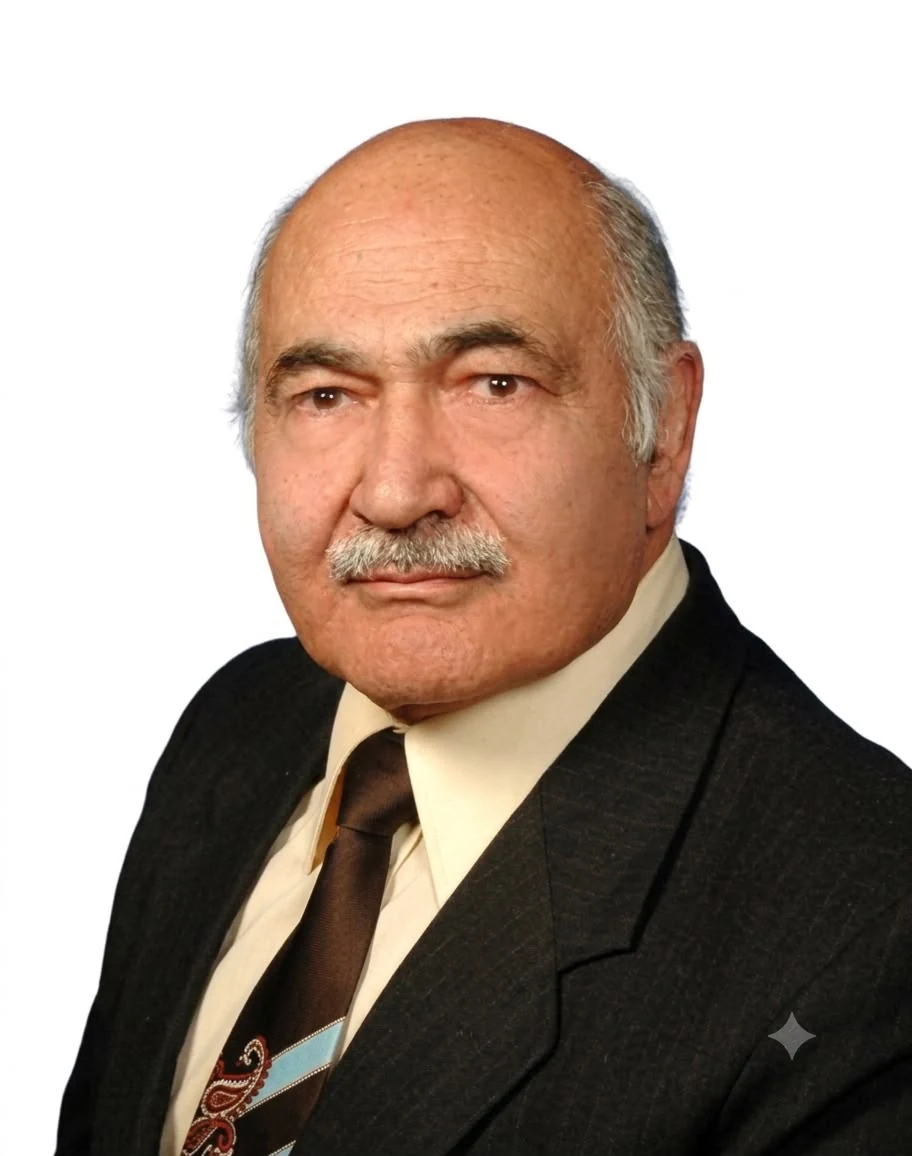
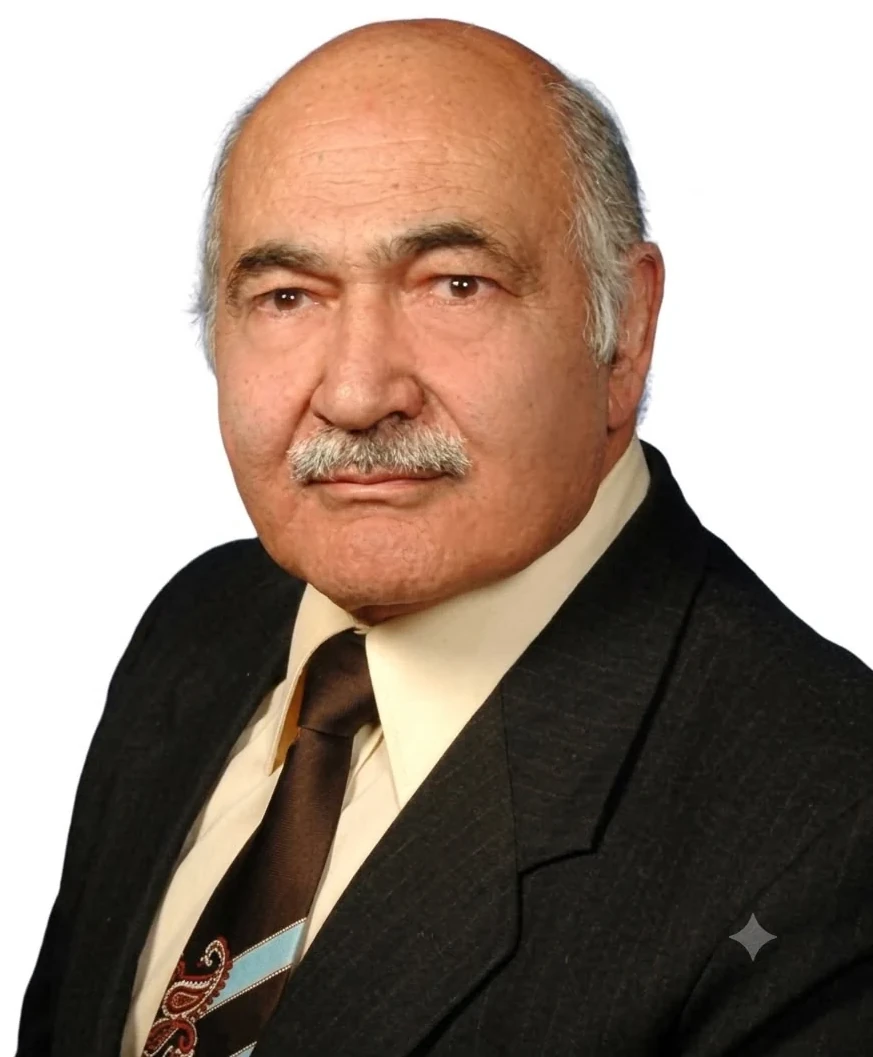
ui(artists): make every roster plate read the same
Two separate causes made the roster look misaligned.

The portraits carried baked-in white padding, and it was not consistent:
mona-saudi and omar-el-nagdi were roughly 25% white on both sides, so
cover-fit rendered the subject small and off-centre next to portraits that
had almost none. Trimmed each to its subject — aspect spread narrows from
0.75-1.90 to 0.75-1.44, and mona-saudi goes 1.75 -> 1.00.

The frame was on the placeholder, not the plate. Portraits are shot on
white, so against a white page they had no edge while the "015" tiles did,
and the rows read as two different treatments. Moved the hairline onto
.artist-roster-media so photo and placeholder are framed identically.

Also excluded OmniRoute-release-v3.8.50 from tsconfig and git — 4 GB of an
unrelated project was dropped into this repo root and tsc was compiling it,
which broke the build.

Pre-trim portraits kept in backups/. Verified EN, AR and mobile: no
overflow, no broken images, no console errors.

diff --git a/src/styles/site-2026.css b/src/styles/site-2026.css
@@ -124,3 +124,14 @@ body{background:var(--g-paper);color:var(--g-ink)}
 /* Interactive controls were the smallest text on the roster at 9px. */
 .artist-roster-hero__taxonomy span,
 .artist-roster-entry__link span{font-size:11px}
+
+/* ---- 12. Every roster plate carries the same frame ----
+   Portraits are shot on white, so against a white page they had no edge at
+   all while the "015" placeholders did — the rows read as two different
+   treatments. Put the hairline on the figure so photo and placeholder are
+   framed identically, and drop the duplicate from the placeholder. */
+.artist-roster-media{
+  background:#fff;
+  box-shadow:inset 0 0 0 1px rgba(18,17,15,.10);
+}
+.artist-roster-media__fallback{box-shadow:none}
